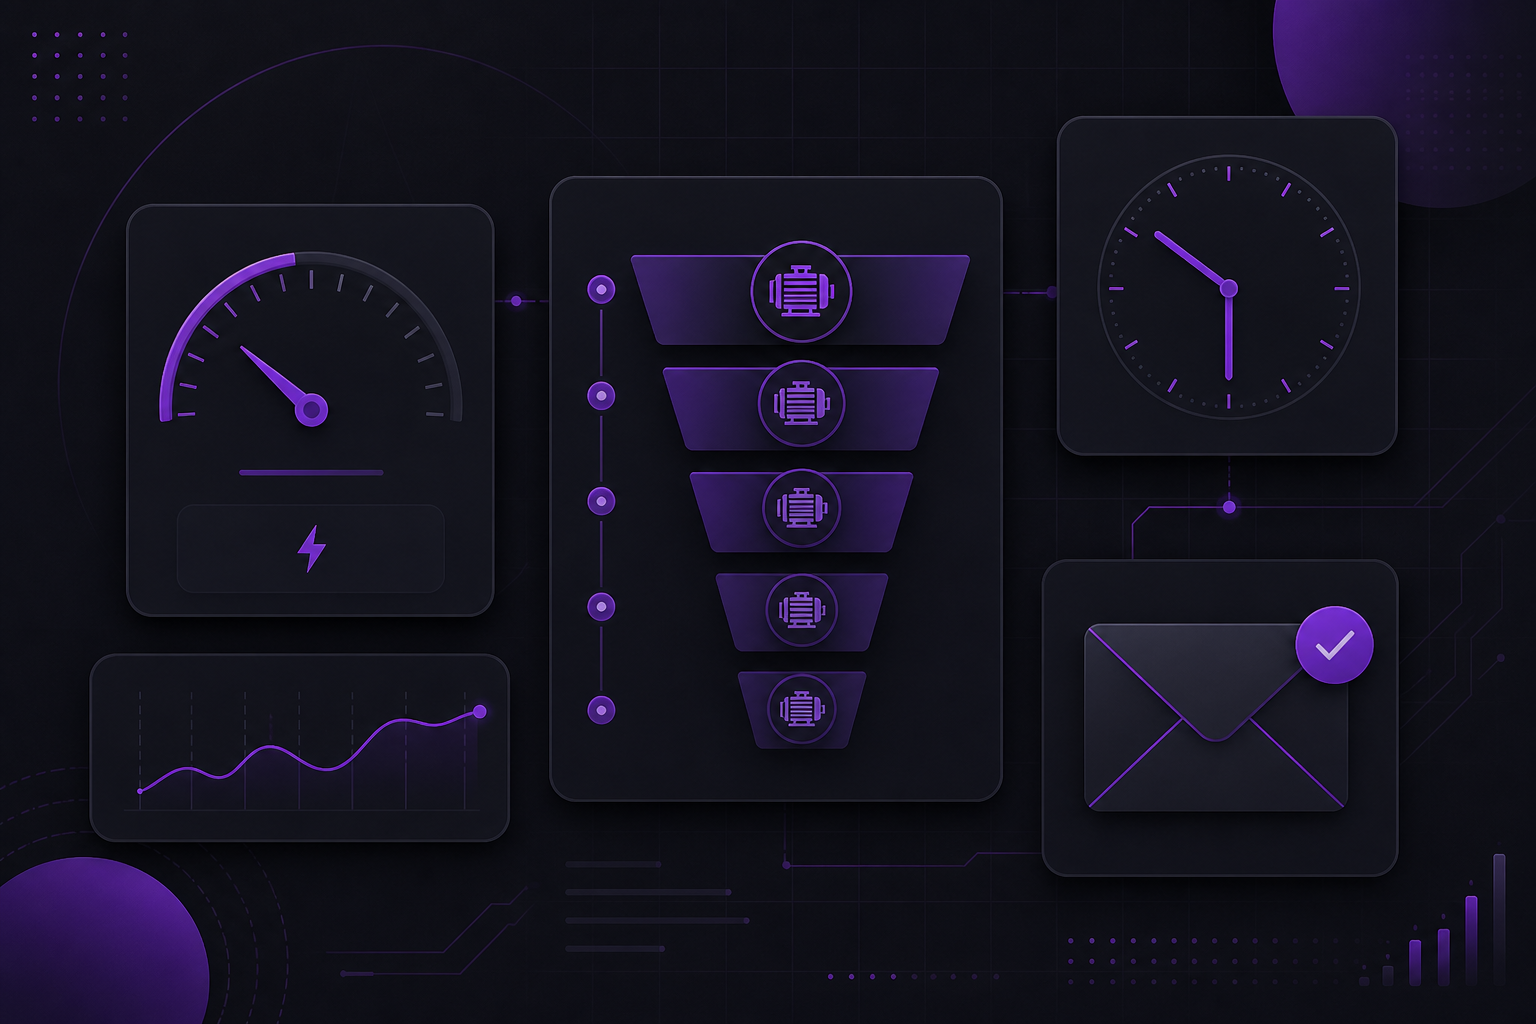
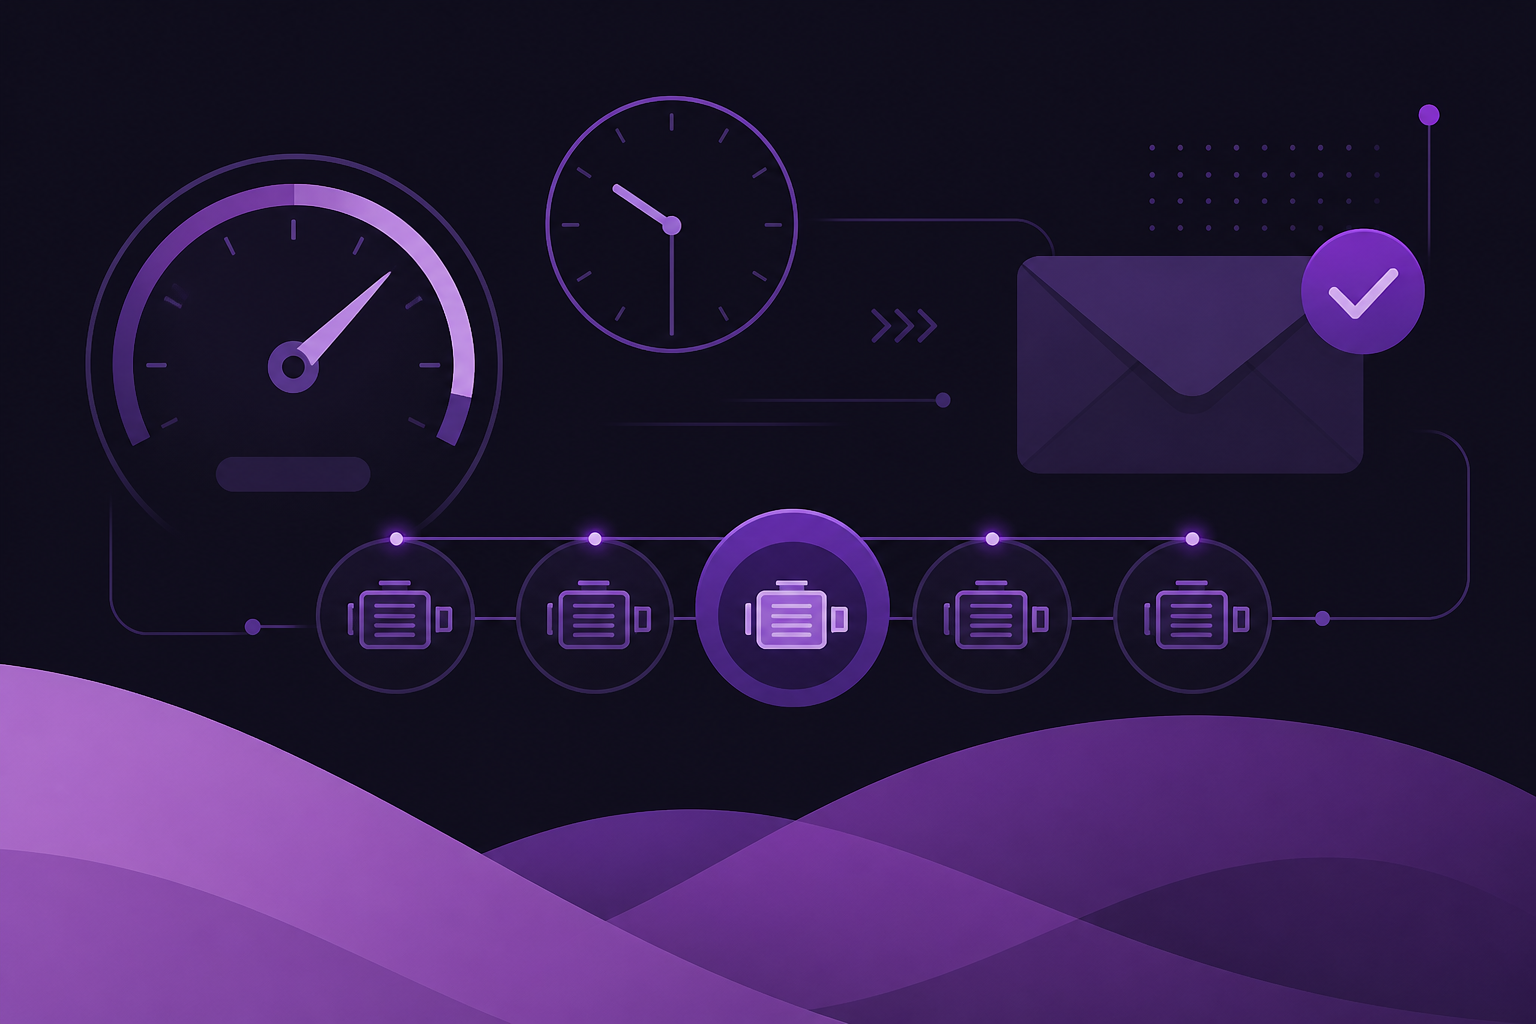
style: CF Gauss visual standard — capas com o motivo das ondas, terminais em ink/lilás, logomarca nos READMEs

diff --git a/dashboard/components/sidebar.tsx b/dashboard/components/sidebar.tsx
@@ -18,14 +18,14 @@ export const NAV = [
 export function Sidebar() {
   const pathname = usePathname();
   return (
-    <aside className="hidden md:flex w-56 shrink-0 flex-col border-r bg-background">
-      <div className="px-4 py-5 border-b">
-        <p className="flex items-center gap-2 text-sm font-semibold tracking-tight text-foreground">
-          <span aria-hidden className="h-2.5 w-2.5 rounded-full bg-brand" />
-          Mail MKT
+    <aside className="hidden md:flex w-56 shrink-0 flex-col bg-ink text-white">
+      <div className="px-4 py-5 border-b border-white/10">
+        <img src="/logo.png" alt="CF Gauss" className="h-9 w-9 rounded-md" />
+        <p className="mt-3 text-sm font-semibold tracking-tight text-white">Mail MKT</p>
+        <p className="mt-1 text-[11px] font-semibold uppercase tracking-[0.11em] text-lilac">
+          Motor de e-mail
         </p>
-        <p className="text-xs text-muted-foreground mt-0.5">Motor de e-mail · demo</p>
-        <Badge variant="outline" className="mt-2 font-mono text-[10px]">
+        <Badge variant="outline" className="mt-2 border-white/20 font-mono text-[10px] text-white">
           v2.0.0
         </Badge>
       </div>
@@ -39,8 +39,8 @@ export function Sidebar() {
               aria-current={ativo ? "page" : undefined}
               className={`block rounded-md px-3 py-2 text-sm ${
                 ativo
-                  ? "bg-primary/10 font-medium text-foreground"
-                  : "text-muted-foreground hover:bg-muted hover:text-foreground"
+                  ? "bg-brand font-medium text-white"
+                  : "text-white/70 hover:bg-white/10 hover:text-white"
               }`}
             >
               {item.rotulo}
@@ -48,7 +48,7 @@ export function Sidebar() {
           );
         })}
       </nav>
-      <div className="px-4 py-3 border-t text-[11px] text-muted-foreground">
+      <div className="px-4 py-3 border-t border-white/10 text-[11px] text-white/60">
         Fidelidade: produção CF Gauss
         <br />
         dados fixos · America/Sao_Paulo
@@ -68,7 +68,7 @@ export function NavMobile() {
   return (
     <div className="md:hidden flex items-center justify-between border-b bg-background px-4 py-3">
       <p className="flex items-center gap-2 text-sm font-semibold">
-        <span aria-hidden className="h-2.5 w-2.5 rounded-full bg-brand" />
+        <img src="/logo.png" alt="CF Gauss" className="h-6 w-6 rounded" />
         Mail MKT
       </p>
       <Sheet open={aberto} onOpenChange={setAberto}>

diff --git a/docs/index.html b/docs/index.html
@@ -37,7 +37,9 @@
   </header>
 
   <main id="main">
-    <section class="v2-banner" id="v2">
+    <section class="v2-banner" id="v2" style="text-align:center;padding-top:40px;">
+      <img src="https://raw.githubusercontent.com/luisroquette/My_MailMKT_makes_Neil_Proud/main/assets/logo.png" alt="CF Gauss" width="64" style="display:block;margin:0 auto 16px;">
+
       <p class="eyebrow">v2.0.0 — THE COCKPIT IS NOW OPEN SOURCE</p>
       <p>Throttle 1 e-mail/lead/day · one cron, five motors in priority order · rules in the database · durable outbox · every CTA tracked · dashboard demo. <a href="https://github.com/luisroquette/My_MailMKT_makes_Neil_Proud#quick-start">See the quick start →</a></p>
     </section>

diff --git a/dashboard/app/globals.css b/dashboard/app/globals.css
@@ -5,8 +5,10 @@
 @custom-variant dark (&:is(.dark *));
 
 @theme inline {
-  /* Marca CF Gauss — accent de produto, não neutro do Precision Light */
-  --color-brand: #7b2fbe;
+  /* CF Gauss Visual Standard (memória reference_cfgauss_visual_standard) */
+  --color-brand: #7b2fbe;   /* roxo de marca — CTAs e destaque */
+  --color-ink: #1a1524;     /* texto/fundo escuro do hero (o site real usa este) */
+  --color-lilac: #c9a7ff;   /* eyebrows/kickers — uppercase, letter-spacing largo */
   --color-background: var(--background);
   --color-foreground: var(--foreground);
   --font-sans: var(--font-sans);

diff --git a/docs/site.css b/docs/site.css
@@ -11,6 +11,9 @@
 }
 .v2-banner .eyebrow {
   color: #7B2FBE;
+  text-transform: uppercase;
+  letter-spacing: 0.11em;
+  font-size: 11px;
 }
 .v2-banner p {
   font-size: 1rem;

diff --git a/README.md b/README.md
@@ -2,6 +2,10 @@
   <img src="assets/cover.png" alt="My_MailMKT_makes_Neil_Proud — the email cockpit, open source" width="100%">
 </p>
 
+<p align="center">
+  <img src="assets/logo.png" alt="CF Gauss" width="72">
+</p>
+
 <h1 align="center">My_MailMKT_makes_Neil_Proud</h1>
 
 <p align="center">
